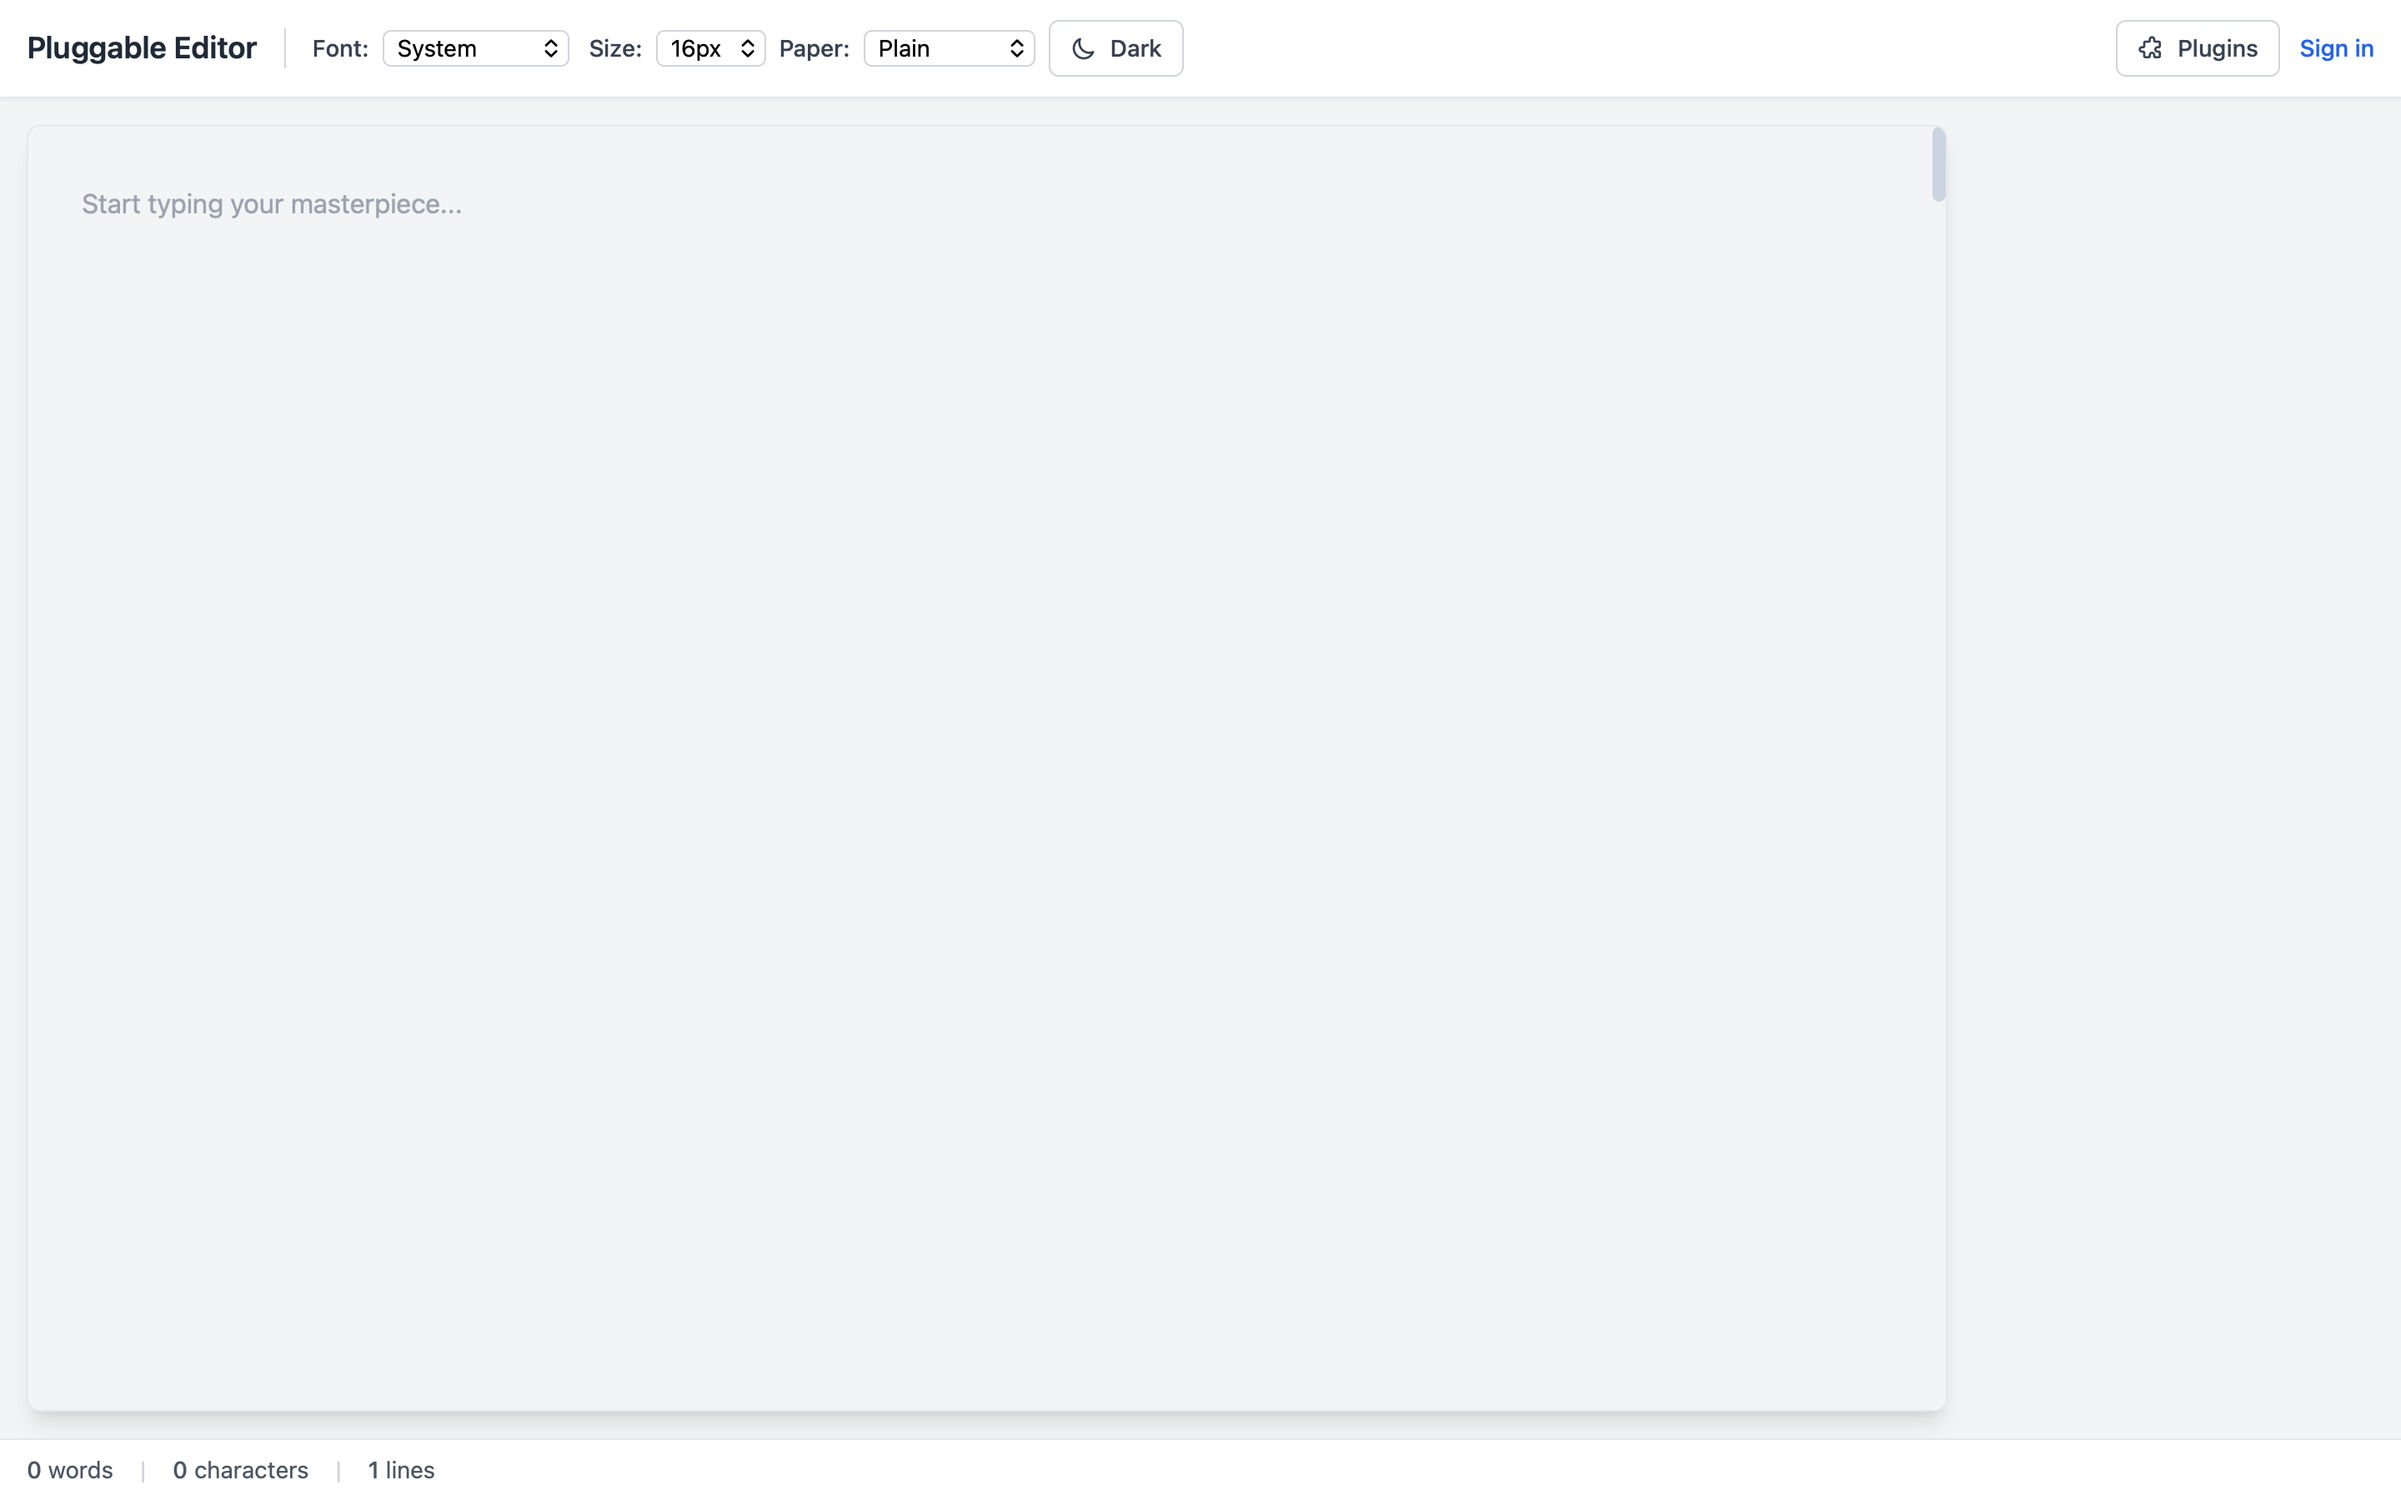
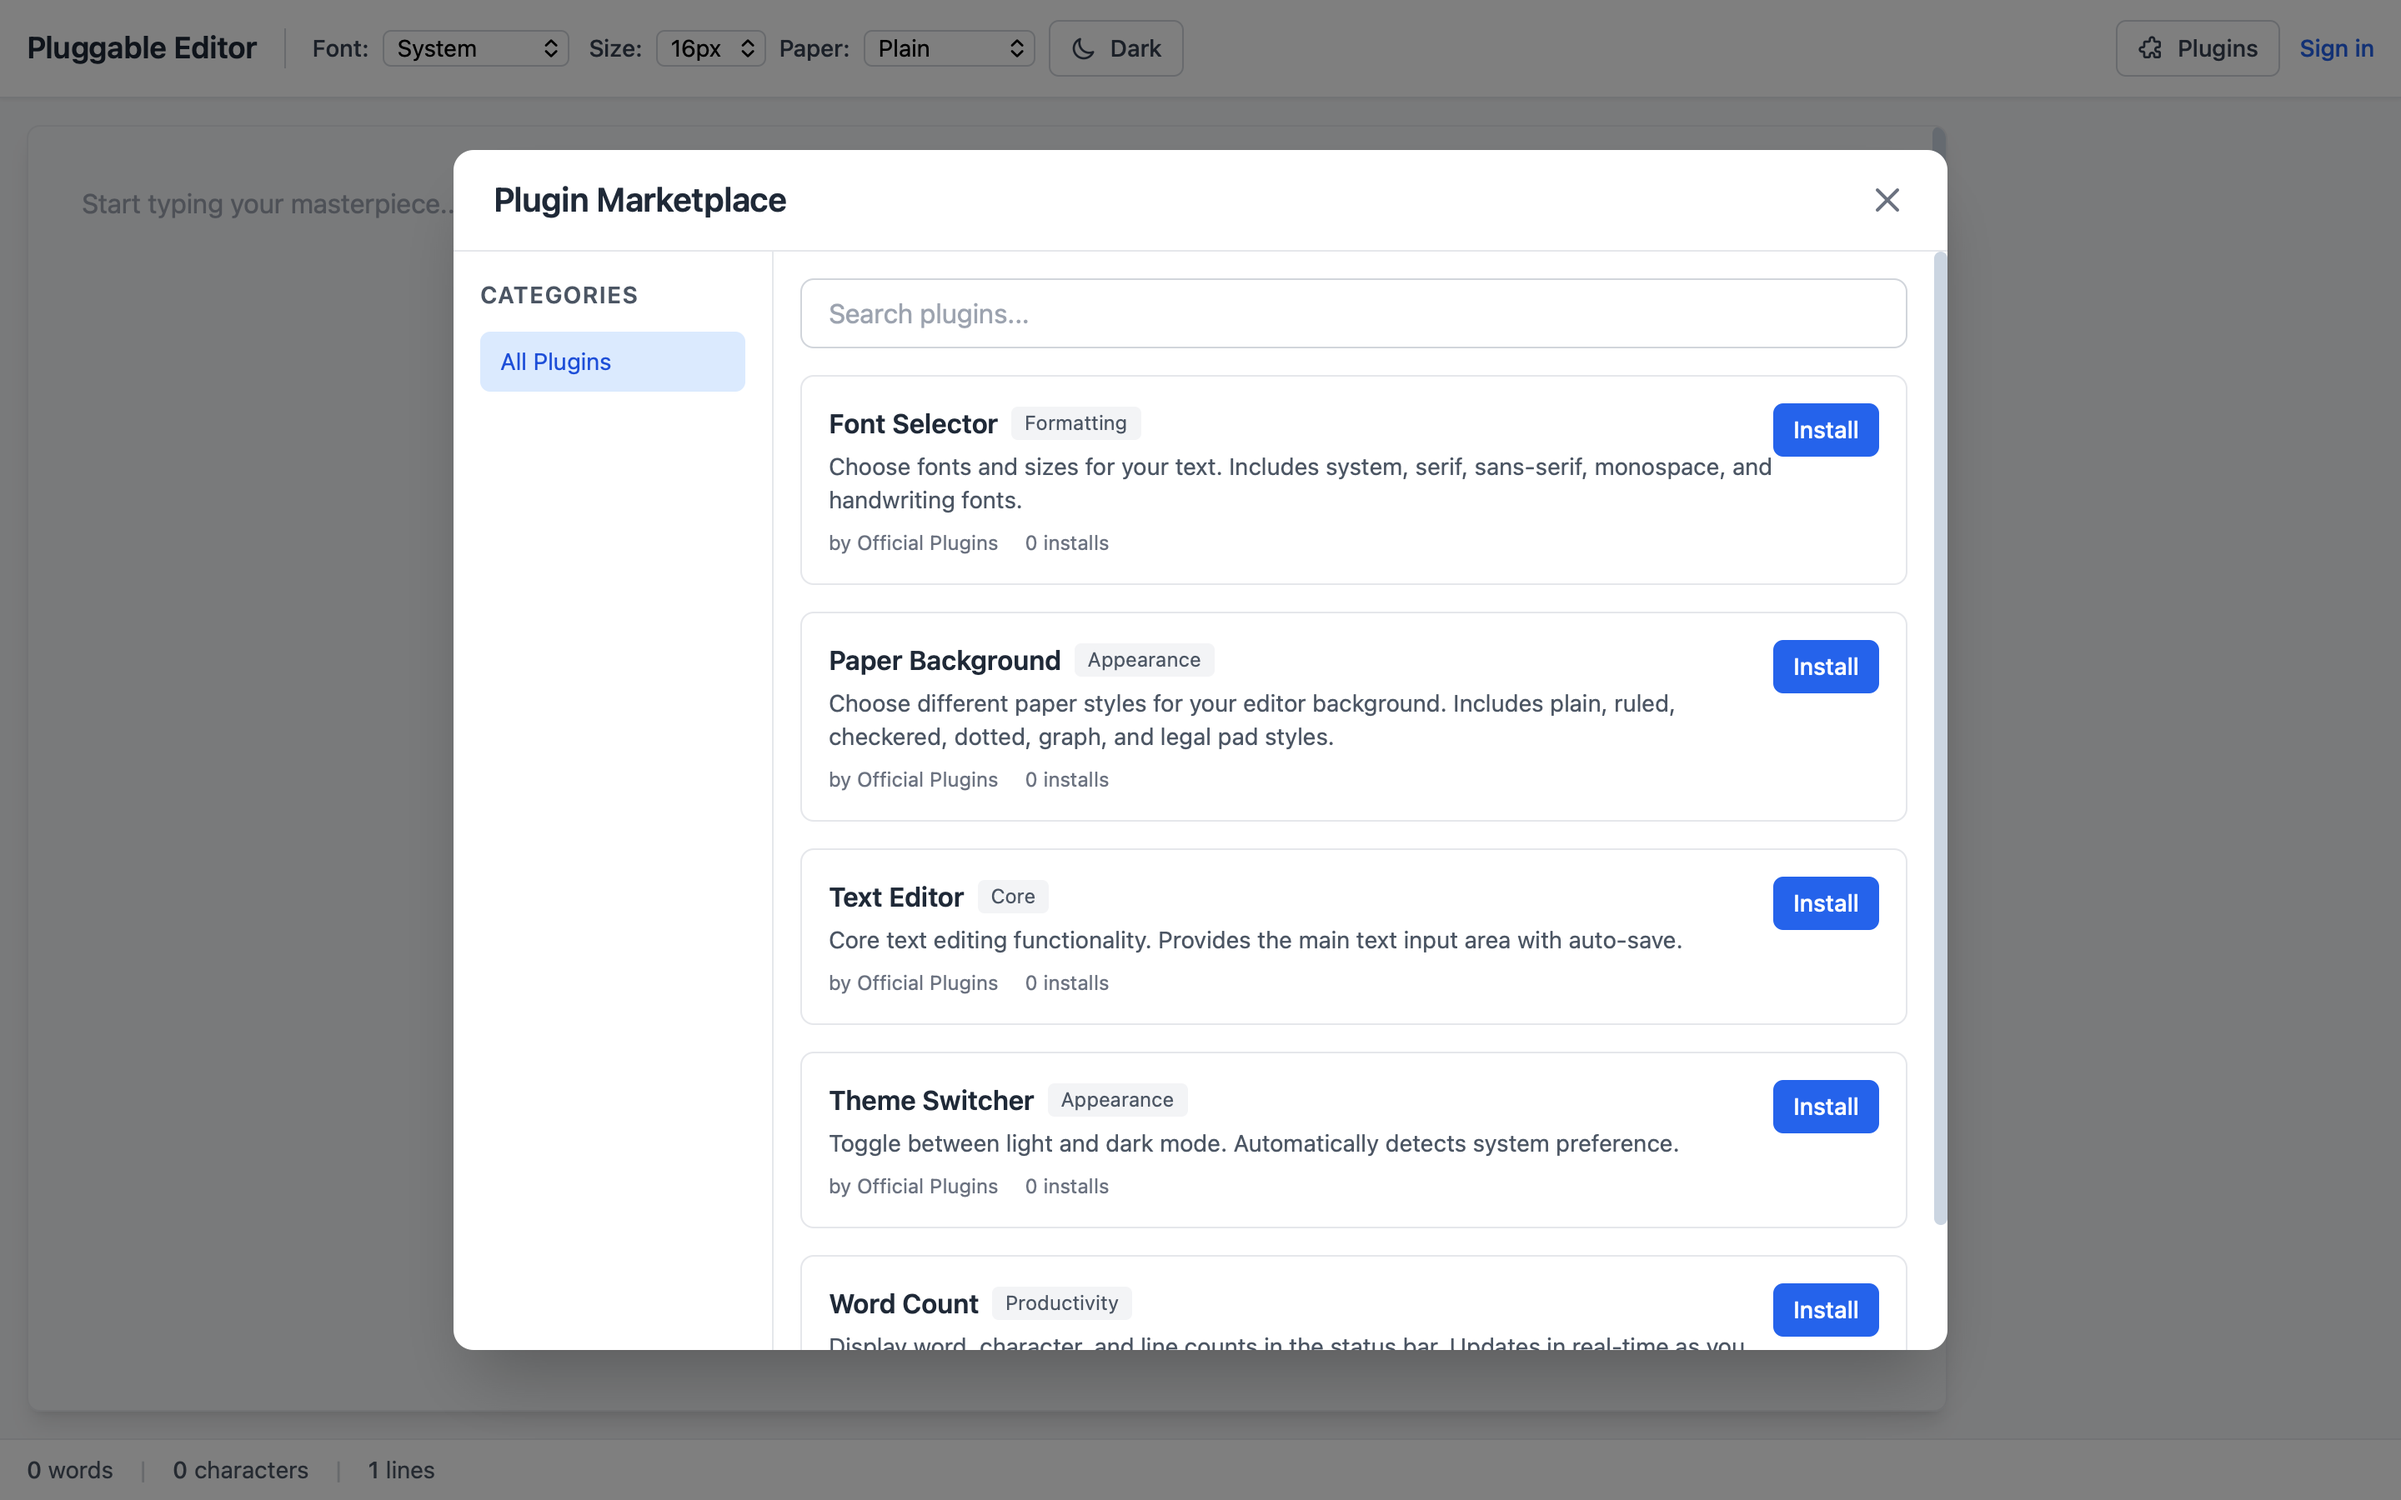
working on

diff --git a/plugin-platform/backend/src/api/routes/user-plugins.ts b/plugin-platform/backend/src/api/routes/user-plugins.ts
@@ -19,8 +19,8 @@ userPluginsRouter.get('/', async (req: Request, res: Response) => {
       sql = `
         SELECT
           up.plugin_id,
-          up.version,
-          up.enabled,
+          up.version_installed AS version,
+          up.is_enabled AS enabled,
           up.settings,
           up.installed_at,
           p.name,
@@ -32,7 +32,7 @@ userPluginsRouter.get('/', async (req: Request, res: Response) => {
           pv.bundle_url
         FROM user_plugins up
         JOIN plugins p ON p.id = up.plugin_id
-        JOIN plugin_versions pv ON pv.plugin_id = p.id AND pv.version = up.version
+        JOIN plugin_versions pv ON pv.plugin_id = p.id AND pv.version = up.version_installed
         WHERE up.user_id = $1
         ORDER BY up.installed_at DESC
       `;
@@ -42,8 +42,8 @@ userPluginsRouter.get('/', async (req: Request, res: Response) => {
       sql = `
         SELECT
           ai.plugin_id,
-          ai.version,
-          ai.enabled,
+          ai.version_installed AS version,
+          ai.is_enabled AS enabled,
           ai.settings,
           ai.installed_at,
           p.name,
@@ -55,7 +55,7 @@ userPluginsRouter.get('/', async (req: Request, res: Response) => {
           pv.bundle_url
         FROM anonymous_installs ai
         JOIN plugins p ON p.id = ai.plugin_id
-        JOIN plugin_versions pv ON pv.plugin_id = p.id AND pv.version = ai.version
+        JOIN plugin_versions pv ON pv.plugin_id = p.id AND pv.version = ai.version_installed
         WHERE ai.session_id = $1
         ORDER BY ai.installed_at DESC
       `;

diff --git a/plugin-platform/frontend/src/core/SlotRenderer.tsx b/plugin-platform/frontend/src/core/SlotRenderer.tsx
@@ -11,12 +11,25 @@ interface SlotProps {
  * Renders all plugin contributions for a specific slot.
  * Each contribution is rendered in order specified by the plugin manifest.
  */
-export function Slot({ id, className = '' }: SlotProps): React.ReactElement {
+export function Slot({ id, className = '' }: SlotProps): React.ReactElement | null {
   const contributions = useSlotContributions(id);
   const { plugins } = usePluginHost();
 
   // Get layout class based on slot type
   const layoutClass = getLayoutClass(id);
+
+  // Render nothing when no plugin contributes to this slot.
+  //
+  // This matters for the `modal` slot specifically: its layout class is
+  // `fixed inset-0`, so an *empty* modal slot still painted a transparent
+  // full-viewport layer over the app that swallowed every pointer event. The
+  // page looked completely normal and was completely dead to the mouse — the
+  // "Plugins" and "Sign in" buttons could not be clicked at all. Returning null
+  // when there is nothing to render is both the fix and the honest behaviour:
+  // a slot with no contributions should occupy no space.
+  if (contributions.length === 0) {
+    return null;
+  }
 
   return (
     <div className={`slot slot-${id} ${layoutClass} ${className}`}>

diff --git a/plugin-platform/CLAUDE.md b/plugin-platform/CLAUDE.md
@@ -47,6 +47,12 @@ Intentionally omitted / simulated: CDN in front of MinIO, Elasticsearch (marketp
 - **2026-07 (architecture drift fix):** `architecture.md` twice cited a "24-hour session TTL"; `api/app.ts` sets a 7-day cookie `maxAge`. Corrected both mentions.
 - **Frontend pivot (history):** the frontend was reworked from a VS Code-style *marketplace-browser* mock into a working "everything is a plugin" editor; the marketplace **backend** was kept and is what the modals talk to.
 - **Repo-wide fixes that touched this project:** ESM hardening (`connect-redis` v8 named import, `pino-http` named import); DB/Redis/MinIO connection fallbacks to docker-compose creds (`plugin_user`/`plugin_pass`, `minioadmin`); schema-apply via `db/migrate.ts` + `npm run db:migrate`.
+- **2026-07-31 — the header was unclickable and the marketplace 500'd. Four faults:**
+  1. **An empty `modal` slot painted an invisible full-viewport overlay that swallowed every click.** `getLayoutClass('modal')` returns `fixed inset-0`, and `Slot` rendered its wrapper div unconditionally — so with no modal plugin contributing, a transparent layer sat over the whole app. The page looked completely normal and was completely dead to the mouse: neither "Plugins" nor "Sign in" could be clicked at all. `Slot` now returns `null` when a slot has no contributions, which is also the honest behaviour — a slot contributing nothing should occupy nothing.
+  2. **Every plugin contribution registered twice.** `slotContributions` is module-level state filled from a `useEffect` with no cleanup, so React StrictMode's deliberate double-invoke pushed each contribution again: two font pickers, two size pickers, two theme toggles, and a status bar reading "0 words | 0 characters | 1 lines" twice. `loadedPlugins` is a Map keyed by plugin id so it deduped itself; the contribution arrays did not. Registration is now idempotent (replace on matching pluginId + component).
+  3. **`user_plugins` / `anonymous_installs` queries used the wrong column names** — `.version` and `.enabled` against tables that declare `version_installed` and `is_enabled`. Both the authenticated and anonymous branches of "list my plugins" 500'd, for every user.
+  4. **`plugin_versions.created_at` vs `published_at`.** Five queries referenced `published_at`; the schema declared `created_at`. Renamed the column, since a `plugin_versions` row *is* a publication event and the code was already speaking that language — listing versions and resolving a plugin's latest version both failed before this.
+- **Screenshots:** 1 → 3, adding the plugin marketplace (now listing all five seeded plugins with categories and install actions) and the sign-in modal — neither of which was reachable before, because of fault 1.
 - **CI:** the repo-wide smoke-test workflow was removed (no Docker services in CI).
 
 ## Open Questions
